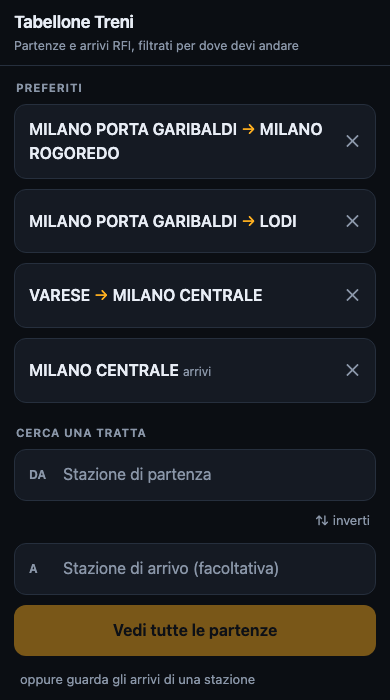
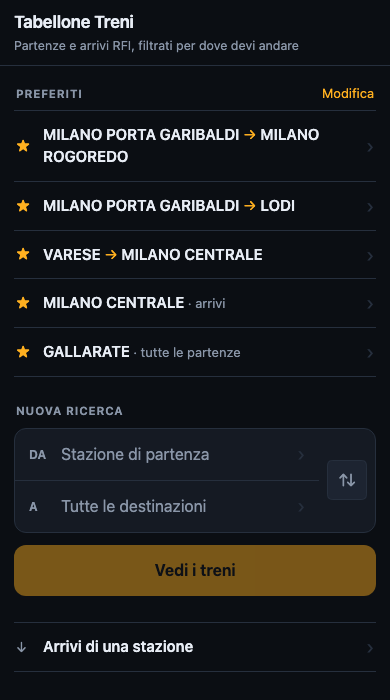
refactor: make the home say which things you tap and which you fill in
Saved routes and the search fields shared one CSS class, so two opposite
affordances looked identical. They now have two shapes: routes are a hairline
list with a star and a chevron, the search is one bordered group with an inner
rule between DA and A. The fields carry a chevron too, because a placeholder
alone promises a keyboard rather than a list.

Arrivals stop being a mode. They used to be a text link that renamed the first
field, hid the second and reworded the button — three changes from one small
control. An arrivals board needs a single station, so it needs no form at all:
its own row opens the picker and goes straight there. That also lets the
primary button keep one fixed label, with the "no destination" case explained
by the A field reading "Tutte le destinazioni".

Deleting a favourite moves behind Modifica. A ✕ beside a tappable row put
deletion one finger-width from the gesture used every day.

Favourites always carry a qualifier when they are not a plain route, so a
missing label no longer means two different things.

diff --git a/web/app.js b/web/app.js
@@ -26,9 +26,15 @@ const stato = {
   caricamento: false,
 };
 
+// Con "Modifica" attivo le righe dei preferiti mostrano la ✕. Fuori da quella
+// modalità non c'è: una ✕ accanto a una riga tappabile mette la cancellazione a
+// un dito dal gesto che si fa ogni giorno.
+let modificaPreferiti = false;
 let timerRinfresco = null;
 let timerEta = null;
 let richiestaInCorso = 0;
+
+const nomeStazione = (id) => stato.nomi.get(id) || `stazione ${id}`;
 
 const $ = (sel) => document.querySelector(sel);
 const testa = $('#testa');
@@ -139,9 +145,16 @@ const campoCerca = $('#cerca');
 const listaScelta = $('#risultati-scelta');
 let campoInModifica = null;
 
+const INVITI = {
+  da: 'Stazione di partenza',
+  a: 'Stazione di arrivo',
+  arrivi: 'Stazione di cui vedere gli arrivi',
+};
+
 function apriScelta(quale) {
   campoInModifica = quale;
   campoCerca.value = '';
+  campoCerca.placeholder = INVITI[quale] || 'Cerca stazione';
   disegnaScelta();
   pannello.hidden = false;
   document.body.style.overflow = 'hidden';
@@ -176,6 +189,13 @@ listaScelta.addEventListener('click', (e) => {
   if (!b) return;
   const id = Number(b.dataset.id);
   ricorda(id);
+  // Un tabellone arrivi ha bisogno di una stazione sola, quindi non gli serve
+  // un modulo: scelta la stazione, ci si va direttamente.
+  if (campoInModifica === 'arrivi') {
+    chiudiScelta();
+    location.hash = `#/a/${id}`;
+    return;
+  }
   if (campoInModifica === 'da') stato.da = id; else stato.a = id;
   chiudiScelta();
   disegna();
@@ -210,6 +230,7 @@ async function cambiaRotta() {
   if (r.vista === 'home') {
     stato.dati = null;
     stato.errore = null;
+    stato.arrivi = false;
     try {
       await caricaStazioni();
     } catch (e) {
@@ -283,51 +304,77 @@ function disegnaHome() {
     <div class="sottotitolo">Partenze e arrivi RFI, filtrati per dove devi andare</div>`;
 
   const fav = preferiti();
-  const nome = (id) => stato.nomi.get(id) || `stazione ${id}`;
+  if (!fav.length) modificaPreferiti = false;
 
   app.innerHTML = `
     ${fav.length ? `
     <section class="sezione">
-      <h2 class="etichetta-sezione">Preferiti</h2>
-      <ul>${fav.map((p) => `
-        <li class="campo preferito">
-          <a class="via" href="${rottaDi(p.f, p.t, p.a)}">
-            <b>${esc(nome(p.f))}</b>${p.t ? ` <span class="freccia">→</span> <b>${esc(nome(p.t))}</b>` : ''}
-            <span class="modo">${p.a ? 'arrivi' : p.t ? '' : 'tutte le partenze'}</span>
-          </a>
-          <button class="togli" type="button" data-togli="${esc(chiaveTratta(p))}"
-                  aria-label="Togli dai preferiti">✕</button>
-        </li>`).join('')}
-      </ul>
+      <div class="testa-sezione">
+        <h2 class="etichetta-sezione">Preferiti</h2>
+        <button class="btn-testo piccolo" type="button" data-modifica>
+          ${modificaPreferiti ? 'Fine' : 'Modifica'}</button>
+      </div>
+      <ul class="lista">${fav.map((p) => rigaPreferito(p)).join('')}</ul>
     </section>` : ''}
 
     <section class="sezione">
-      <h2 class="etichetta-sezione">${stato.arrivi ? 'Arrivi a' : 'Cerca una tratta'}</h2>
-      <button class="campo" type="button" data-apri="da">
-        <span class="sigla">${stato.arrivi ? 'IN' : 'DA'}</span>
-        <span class="valore ${stato.da ? '' : 'vuoto'}">${stato.da ? esc(nome(stato.da))
-          : stato.arrivi ? 'Stazione' : 'Stazione di partenza'}</span>
-      </button>
-      ${stato.arrivi ? '' : `
-      <button class="scambia" type="button" data-scambia>⇅ inverti</button>
-      <button class="campo" type="button" data-apri="a">
-        <span class="sigla">A</span>
-        <span class="valore ${stato.a ? '' : 'vuoto'}">${stato.a ? esc(nome(stato.a)) : 'Stazione di arrivo (facoltativa)'}</span>
-      </button>`}
+      <h2 class="etichetta-sezione">Nuova ricerca</h2>
+      <div class="gruppo">
+        <div class="gruppo-campi">
+          ${campoStazione('da', 'DA', stato.da, 'Stazione di partenza')}
+          ${campoStazione('a', 'A', stato.a, 'Tutte le destinazioni')}
+        </div>
+        <button class="inverti" type="button" data-scambia
+                aria-label="Inverti partenza e arrivo">⇅</button>
+      </div>
       <button class="principale" type="button" data-vai ${stato.da ? '' : 'disabled'}>
-        ${stato.a && !stato.arrivi ? 'Vedi i treni per questa tratta' : stato.arrivi ? 'Vedi gli arrivi' : 'Vedi tutte le partenze'}
+        Vedi i treni
       </button>
-      <button class="scambia" type="button" data-modo style="margin: 10px auto 0 0">
-        ${stato.arrivi ? '← torna alle partenze' : 'oppure guarda gli arrivi di una stazione'}
-      </button>
+    </section>
+
+    <section class="sezione">
+      <ul class="lista">
+        <li class="riga">
+          <button class="riga-tocco" type="button" data-apri="arrivi">
+            <span class="segno tenue">↓</span>
+            <span class="testo">Arrivi di una stazione</span>
+            <span class="chevron">›</span>
+          </button>
+        </li>
+      </ul>
     </section>`;
+}
+
+function campoStazione(quale, sigla, id, vuoto) {
+  return `<button class="campo" type="button" data-apri="${quale}">
+    <span class="sigla">${sigla}</span>
+    <span class="valore ${id ? '' : 'vuoto'}">${id ? esc(nomeStazione(id)) : vuoto}</span>
+    <span class="chevron">›</span>
+  </button>`;
+}
+
+function rigaPreferito(p) {
+  return `<li class="riga">
+    <a class="riga-tocco" href="${rottaDi(p.f, p.t, p.a)}">
+      <span class="segno">★</span>
+      <span class="testo">${etichettaPreferito(p)}</span>
+      ${modificaPreferiti ? '' : '<span class="chevron">›</span>'}
+    </a>
+    ${modificaPreferiti ? `<button class="togli" type="button" data-togli="${esc(chiaveTratta(p))}"
+        aria-label="Togli dai preferiti">✕</button>` : ''}
+  </li>`;
+}
+
+function etichettaPreferito(p) {
+  if (p.a) return `${esc(nomeStazione(p.f))}<span class="qualifica"> · arrivi</span>`;
+  if (p.t) return `${esc(nomeStazione(p.f))} <span class="freccia">→</span> ${esc(nomeStazione(p.t))}`;
+  return `${esc(nomeStazione(p.f))}<span class="qualifica"> · tutte le partenze</span>`;
 }
 
 function disegnaRisultati() {
   const d = stato.dati;
-  const nome = (id) => stato.nomi.get(id) || '';
-  const daNome = (d && d.from) || nome(stato.da);
-  const aNome = (d && d.to) || nome(stato.a);
+  const daNome = (d && d.from) || (stato.da ? nomeStazione(stato.da) : '');
+  const aNome = (d && d.to) || (stato.a ? nomeStazione(stato.a) : '');
   const questa = { f: stato.da, t: stato.arrivi ? null : stato.a, a: stato.arrivi || undefined };
   const salvato = ePreferito(questa);
 
@@ -432,7 +479,7 @@ app.addEventListener('click', (e) => {
   if (t.closest('[data-apri]')) apriScelta(t.closest('[data-apri]').dataset.apri);
   else if (t.closest('[data-vai]')) vaiAiRisultati();
   else if (t.closest('[data-scambia]')) { [stato.da, stato.a] = [stato.a, stato.da]; disegna(); }
-  else if (t.closest('[data-modo]')) { stato.arrivi = !stato.arrivi; disegna(); }
+  else if (t.closest('[data-modifica]')) { modificaPreferiti = !modificaPreferiti; disegna(); }
   else if (t.closest('[data-togli]')) {
     const k = t.closest('[data-togli]').dataset.togli;
     scrivi('tt.preferiti', preferiti().filter((p) => chiaveTratta(p) !== k));

diff --git a/web/app.css b/web/app.css
@@ -100,24 +100,76 @@ ul { list-style: none; margin: 0; padding: 0; }
 
 /* ---------- home ---------- */
 
-.sezione + .sezione { margin-top: 22px; }
+/* Sulla home convivono due cose che si fanno in modi opposti: le tratte salvate
+   si toccano per andare, i campi di ricerca si compilano. Prima avevano lo
+   stesso aspetto e non si capiva quale fosse quale, per cui ora hanno due forme
+   diverse: le prime sono una lista di righe a filo, i secondi un blocco unico
+   riquadrato — la stessa distinzione che si vede fra una lista di voci e un
+   modulo raggruppato. */
+
+.sezione + .sezione { margin-top: 26px; }
+.testa-sezione { display: flex; align-items: baseline; justify-content: space-between; }
 .etichetta-sezione {
   font-size: 11.5px; font-weight: 650; letter-spacing: 0.07em; text-transform: uppercase;
   color: var(--tenue); margin: 0 0 8px 2px;
 }
 
+/* --- lista: le tratte salvate e le voci di navigazione --- */
+
+.lista { border-top: 1px solid var(--bordo); }
+.riga { display: flex; align-items: center; border-bottom: 1px solid var(--bordo); }
+.riga-tocco {
+  flex: 1; min-width: 0;
+  display: flex; align-items: center; gap: 12px;
+  padding: 13px 2px; background: none; border: 0; text-align: left;
+  font-size: 15px;
+}
+.riga-tocco .segno { flex: none; width: 15px; color: var(--ambra); font-size: 14px; }
+.riga-tocco .segno.tenue { color: var(--tenue); }
+.riga-tocco .testo { flex: 1; min-width: 0; font-weight: 600; }
+.riga-tocco .testo .freccia { color: var(--ambra); font-weight: 400; }
+/* Il qualificatore c'è ogni volta che la riga non è una tratta pura: così
+   l'assenza di etichetta non significa due cose diverse. */
+.riga-tocco .qualifica { color: var(--tenue); font-weight: 400; font-size: 13px; }
+.riga-tocco .chevron { flex: none; color: var(--bordo); font-size: 20px; line-height: 1; }
+.togli {
+  flex: none; padding: 12px 4px 12px 14px;
+  background: none; border: 0; color: var(--rosso); font-size: 16px;
+}
+
+/* --- modulo: la nuova ricerca --- */
+
+/* DA e A stanno in un solo riquadro separati da un filo, e il pulsante di
+   scambio siede a cavallo dei due: appartiene visibilmente a entrambi invece di
+   galleggiare fra loro. */
+.gruppo {
+  display: flex; align-items: stretch;
+  background: var(--piano); border: 1px solid var(--bordo); border-radius: var(--raggio);
+  margin-bottom: 12px;
+}
+.gruppo-campi { flex: 1; min-width: 0; }
 .campo {
   display: flex; align-items: center; gap: 12px; width: 100%;
-  padding: 13px 14px; margin-bottom: var(--gap);
-  background: var(--piano); border: 1px solid var(--bordo); border-radius: var(--raggio);
-  text-align: left;
+  padding: 14px; background: none; border: 0; text-align: left;
 }
+.gruppo-campi .campo + .campo { border-top: 1px solid var(--bordo); }
 .campo .sigla {
-  flex: none; width: 22px;
+  flex: none; width: 20px;
   color: var(--tenue); font-size: 12px; font-weight: 650;
 }
 .campo .valore { flex: 1; min-width: 0; overflow: hidden; text-overflow: ellipsis; white-space: nowrap; }
 .campo .valore.vuoto { color: var(--tenue); }
+.campo .chevron { flex: none; color: var(--bordo); font-size: 20px; line-height: 1; }
+
+.inverti {
+  flex: none; align-self: center;
+  width: 40px; height: 40px; margin: 0 8px;
+  display: grid; place-items: center;
+  background: var(--piano-alto); border: 1px solid var(--bordo); color: var(--tenue);
+  font-size: 17px;
+  border-radius: 22%;
+  corner-shape: squircle;
+}
 
 .principale {
   display: block; width: 100%;
@@ -131,18 +183,7 @@ ul { list-style: none; margin: 0; padding: 0; }
 }
 
 .btn-testo { background: none; border: 0; color: var(--ambra); padding: 6px; font-size: 15px; }
-
-.scambia {
-  display: block; margin: -4px 0 var(--gap) auto;
-  background: none; border: 0; color: var(--tenue); font-size: 13px; padding: 4px 6px;
-}
-
-.preferito { display: flex; align-items: center; gap: 10px; }
-.preferito .via { flex: 1; min-width: 0; }
-.preferito .via b { font-weight: 600; }
-.preferito .via .freccia { color: var(--ambra); }
-.preferito .modo { font-size: 12px; color: var(--tenue); }
-.togli { background: none; border: 0; color: var(--tenue); padding: 6px 2px; font-size: 17px; }
+.btn-testo.piccolo { font-size: 13px; padding: 4px 2px; }
 
 /* ---------- elenco treni ---------- */
 
